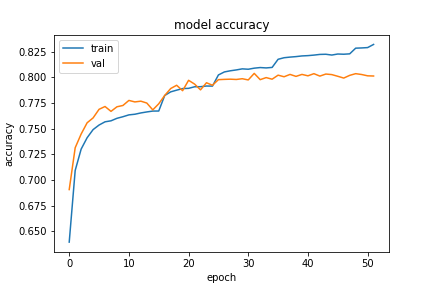
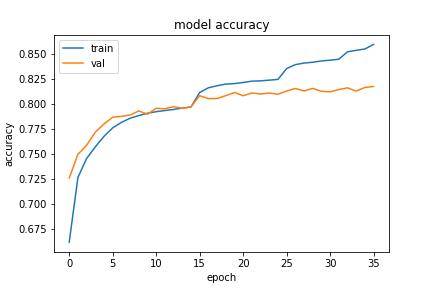
Added new Glove embedding

diff --git a/attention.py b/attention.py
@@ -37,21 +37,22 @@ class Attention(tf.keras.layers.Layer):
 
 class RochtaschelAttention(tf.keras.layers.Layer):
 
-    def __init__(self):
+    def __init__(self, regularizer):
+        self.kernel_regularizer = regularizer
         super(RochtaschelAttention, self).__init__()
 
     def build(self, input_shape):
 
         self.W_y = self.add_weight(name="att_weight_y", shape=(input_shape[-1], input_shape[-1]),
-                               initializer="glorot_uniform", trainable=True)
+                               initializer="glorot_uniform", regularizer=self.kernel_regularizer, trainable=True)
         self.W_h = self.add_weight(name="att_weight_h", shape=(input_shape[-1], input_shape[-1]),
-                               initializer="glorot_uniform", trainable=True)
+                               initializer="glorot_uniform", regularizer=self.kernel_regularizer, trainable=True)
         self.W_p = self.add_weight(name="att_weight_p", shape=(input_shape[-1], input_shape[-1]),
-                               initializer="glorot_uniform", trainable=True)
+                               initializer="glorot_uniform", regularizer=self.kernel_regularizer, trainable=True)
         self.W_x = self.add_weight(name="att_weight_x", shape=(input_shape[-1], input_shape[-1]),
-                               initializer="glorot_uniform", trainable=True)
+                               initializer="glorot_uniform", regularizer=self.kernel_regularizer, trainable=True)
         self.w = self.add_weight(name="att_weight", shape=(input_shape[-1], 1),
-                               initializer="glorot_uniform", trainable=True)
+                               initializer="glorot_uniform", regularizer=self.kernel_regularizer, trainable=True)
 
         return super(RochtaschelAttention, self).build(input_shape)
 
@@ -60,36 +61,36 @@ class RochtaschelAttention(tf.keras.layers.Layer):
 
         y = inputs[:, :inputs.shape[1]//2, :]
         h_n = inputs[:, -1, :]
-        # print(h_n.shape)
-        # print(y.shape)
         first_term =  tf.einsum('ijk,kk->ijk', y, self.W_y)
-        # print(first_term.shape)
         second_term = tf.keras.layers.RepeatVector(inputs.shape[1]//2)(tf.einsum('ik,kk->ik', h_n, self.W_h))
-        # print(second_term.shape)
         M = tf.keras.activations.tanh(first_term + second_term)
-        # print(M.shape)
         alpha = tf.keras.activations.softmax(tf.einsum('ij,lkj->lik', tf.transpose(self.w), M))
-        # print(alpha.shape)
-        # print(y.shape)
         r = tf.einsum('ijk,ilj->ik', y, alpha)
-        # print(r.shape)
         output = tf.keras.activations.tanh(tf.einsum('jj,ij->ij', self.W_p, r) + tf.einsum('jj,ij->ij', self.W_x, h_n))
-        # print(output.shape)
-
         return output
+
+    def get_config(self):
+        config = super().get_config().copy()
+        config.update({
+            'regularizer': self.kernel_regularizer 
+        })
+        return config
 
 class InnerAttention(tf.keras.layers.Layer):
 
-    def __init__(self):
-        super(InnerAttention, self).__init__()
+    def __init__(self, regularizer, name=None, **kwargs):
+        super(InnerAttention, self).__init__(name=name)
+        self.kernel_regularizer = regularizer
+        super(InnerAttention, self).__init__(**kwargs)
 
     def build(self, input_shape):
+        
         self.W_y = self.add_weight(name="att_weight_y", shape=(input_shape[-1], input_shape[-1]),
-                               initializer="glorot_uniform", trainable=True)
+                               initializer="glorot_uniform", regularizer=self.kernel_regularizer, trainable=True)
         self.W_h = self.add_weight(name="att_weight_h", shape=(input_shape[-1], input_shape[-1]),
-                               initializer="glorot_uniform", trainable=True)
+                               initializer="glorot_uniform", regularizer=self.kernel_regularizer, trainable=True)
         self.w = self.add_weight(name="att_weight", shape=(input_shape[-1], 1),
-                               initializer="glorot_uniform", trainable=True)
+                               initializer="glorot_uniform", regularizer=self.kernel_regularizer, trainable=True)
 
         return super(InnerAttention, self).build(input_shape)
 
@@ -102,3 +103,18 @@ class InnerAttention(tf.keras.layers.Layer):
         alpha = tf.keras.activations.softmax(tf.einsum('ij,lkj->lik', tf.transpose(self.w), M))
         output = tf.einsum('ijk,ilj->ik', y, alpha)
         return output
+
+    def _get_attention_weights(self, y):
+        R_avg = tf.keras.layers.GlobalAveragePooling1D()(y)
+        first_term = tf.einsum('ijk,kk->ijk', y, self.W_y)
+        second_term = tf.keras.layers.RepeatVector(y.shape[1])(tf.einsum('ik,kk->ik', R_avg, self.W_h))
+        M = tf.keras.activations.tanh(first_term + second_term)
+        alpha = tf.keras.activations.softmax(tf.einsum('ij,lkj->lik', tf.transpose(self.w), M))
+        return alpha
+
+    def get_config(self):
+        config = super().get_config().copy()
+        config.update({
+            'regularizer': self.kernel_regularizer 
+        })
+        return config

diff --git a/model.py b/model.py
@@ -138,16 +138,16 @@ def create_Rochtaschel_model(premise, hypothesis,
 
     translation = tf.keras.layers.TimeDistributed(tf.keras.layers.Dense(300, activation='relu', kernel_regularizer=lam))
 
-    LSTM_p = tf.keras.layers.LSTM(100, 
+    lstm_layer_1 = tf.keras.layers.LSTM(100, 
                                 kernel_regularizer=lam, 
                                 recurrent_regularizer=lam, 
                                 return_sequences=True,
                                 return_state=True,
                                 time_major=False)
 
-    LSTM_h = tf.keras.layers.LSTM(100,
+    lstm_layer_2 = tf.keras.layers.LSTM(100, 
                                 kernel_regularizer=lam, 
-                                recurrent_regularizer=lam,
+                                recurrent_regularizer=lam, 
                                 return_sequences=True,
                                 time_major=False)
 
@@ -158,23 +158,23 @@ def create_Rochtaschel_model(premise, hypothesis,
     hypothesis = translation(hypothesis)
 
     if two_way:
-        premise_1, forward_h, forward_c, = LSTM_p(premise)
+        premise_1, forward_h, forward_c, = lstm_layer_1(premise)
         init_states = [forward_h, forward_c]
-        hypothesis_1 = LSTM_h(hypothesis, initial_state=init_states)
-        train_input_1 = RochtaschelAttention()(tf.keras.layers.concatenate([premise_1, hypothesis_1], axis=1))
-        hypothesis_2, forward_h, forward_c, = LSTM_p(hypothesis)
+        hypothesis_1 = lstm_layer_2(hypothesis, initial_state=init_states)
+        train_input_1 = RochtaschelAttention(regularizer=lam)(tf.keras.layers.concatenate([premise_1, hypothesis_1], axis=1))
+        hypothesis_2, forward_h, forward_c, = lstm_layer_1(hypothesis)
         init_states = [forward_h, forward_c]
-        premise_2 = LSTM_h(premise, initial_state=init_states)
-        train_input_2 = RochtaschelAttention()(tf.keras.layers.concatenate([hypothesis_2, premise_2], axis=1))
+        premise_2 = lstm_layer_2(premise, initial_state=init_states)
+        train_input_2 = RochtaschelAttention(regularizer=lam)(tf.keras.layers.concatenate([hypothesis_2, premise_2], axis=1))
         train_input = tf.keras.layers.concatenate([train_input_1, train_input_2])
     else:
-        premise, forward_h, forward_c, = LSTM_p(premise)
+        premise, forward_h, forward_c, = lstm_layer_1(premise)
         init_states = [forward_h, forward_c]
-        hypothesis = LSTM_h(hypothesis, initial_state=init_states)
-        train_input = RochtaschelAttention()(tf.keras.layers.concatenate([premise, hypothesis], axis=1))
+        hypothesis = lstm_layer_2(hypothesis, initial_state=init_states)
+        train_input = RochtaschelAttention(regularizer=lam)(tf.keras.layers.concatenate([premise, hypothesis], axis=1))
 
 
-    train_input = tf.keras.layers.Dropout(0.1)(train_input)
+    train_input = tf.keras.layers.Dropout(0.25)(train_input)
 
     for i in range(3):
         train_input = tf.keras.layers.Dense(100, kernel_regularizer=lam)(train_input)
@@ -217,8 +217,8 @@ def create_Inner_Attention_model(premise, hypothesis,
     premise = BiLSTM(premise)
     hypothesis = BiLSTM(hypothesis)
 
-    premise = InnerAttention()(premise)
-    hypothesis = InnerAttention()(hypothesis)
+    premise = InnerAttention(regularizer=lam)(premise)
+    hypothesis = InnerAttention(regularizer=lam)(hypothesis)
 
     if baseline:
         train_input = tf.keras.layers.concatenate([premise, hypothesis])
@@ -228,7 +228,7 @@ def create_Inner_Attention_model(premise, hypothesis,
         train_input = tf.keras.layers.concatenate([premise, hypothesis, dot_product, difference])
 
 
-    train_input = tf.keras.layers.Dropout(0.1)(train_input)
+    train_input = tf.keras.layers.Dropout(0.25)(train_input)
 
     for i in range(3):
         train_input = tf.keras.layers.Dense(100, kernel_regularizer=lam)(train_input)

diff --git a/get_data.py b/get_data.py
@@ -86,14 +86,14 @@ def glove_dict(EMBEDDING_DIM):
     embedding_dict = {}
 
     # Open the GloVe embedding file
-    glove_dir = './input/embeddings/glove.6B.'+ str(EMBEDDING_DIM)+'d.txt'
+    glove_dir = './input/embeddings/glove.840B.'+ str(EMBEDDING_DIM)+'d.txt'
     file = open(glove_dir, encoding="utf8")
 
     for line in file:
         # Spilt the word and its embedding vector
-        line_list = line.split()
+        line_list = line.split(' ')
         word = line_list[0]
-        embeddings = np.asarray(line_list[1:], dtype=float)
+        embeddings = np.asarray(line_list[1:], dtype='float32')
 
         # Store the word and its embedding vector in a dictionary
         embedding_dict[word] = embeddings
@@ -101,7 +101,7 @@ def glove_dict(EMBEDDING_DIM):
     file.close()
 
     # Store the dictionary as a pickle file to reduce thw overhead of loading
-    with open(f'./input/embeddings/glove_dict{EMBEDDING_DIM}d.pickle', "wb") as file:
+    with open(f'./input/embeddings/glove_dict_840_{EMBEDDING_DIM}d.pickle', "wb") as file:
         pickle.dump(embedding_dict, file)
 
     return embedding_dict
@@ -110,7 +110,7 @@ def glove_dict(EMBEDDING_DIM):
 def embedding_matrix(corpus, EMBEDDING_DIM, VOCAB_SIZE):
     # Try to load GloVe embedding dictionary if it exists. If not, create one
     try:
-        with open(f'./input/embeddings/glove_dict{EMBEDDING_DIM}d.pickle', "rb") as file:
+        with open(f'./input/embeddings/glove_dict_840_{EMBEDDING_DIM}d.pickle', "rb") as file:
             glove_embedding = pickle.load(file)
     except:
         glove_embedding = glove_dict(EMBEDDING_DIM)
